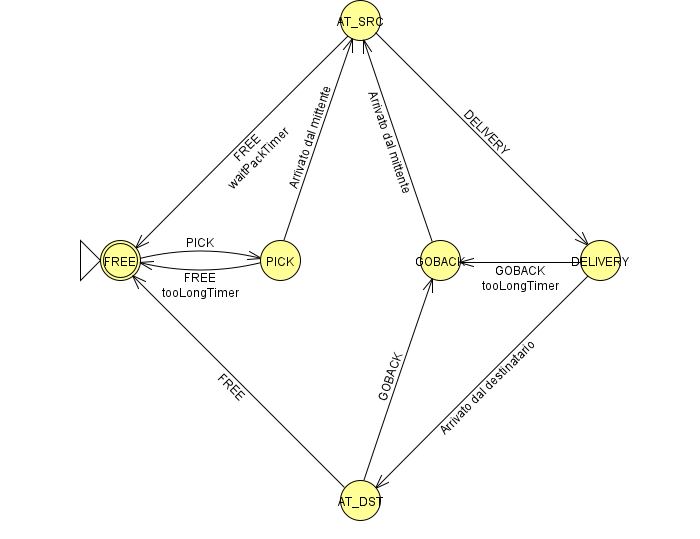
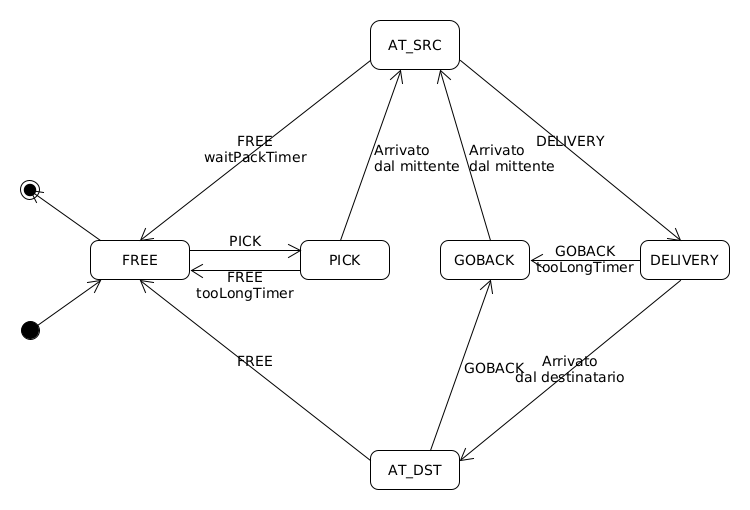
revisioni

diff --git a/README.md b/README.md
@@ -100,5 +100,5 @@ Offre i seguenti servizi:
     <li><b>pick_e_delivery/setTooLongInterval</b> per cambiare il periodo di timeout di tooLong (inizialmente a 50)</li>
     <li><b>pick_e_delivery/setWaitPackInterval</b> per cambiare il periodo di timeout di waitPack (inizialmente a 30)</li>
 </ul>
-Gli stati del robot sono descritti da questo semplice automa creato con JFLAP<br/>
+Gli stati del robot sono descritti da questo diagramma degli stati e delle transizioni creato con Umlet<br/>
 <img src="robot.png">
